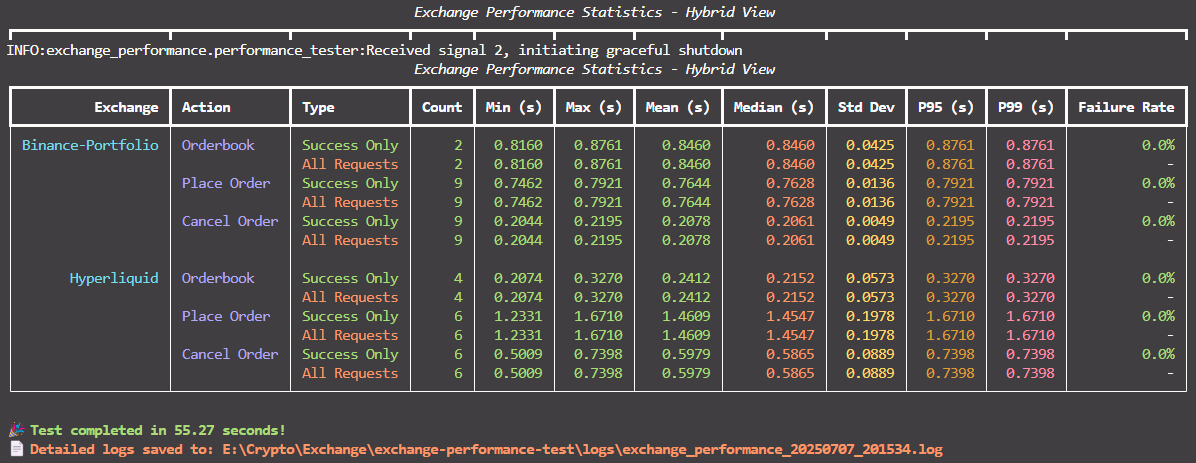
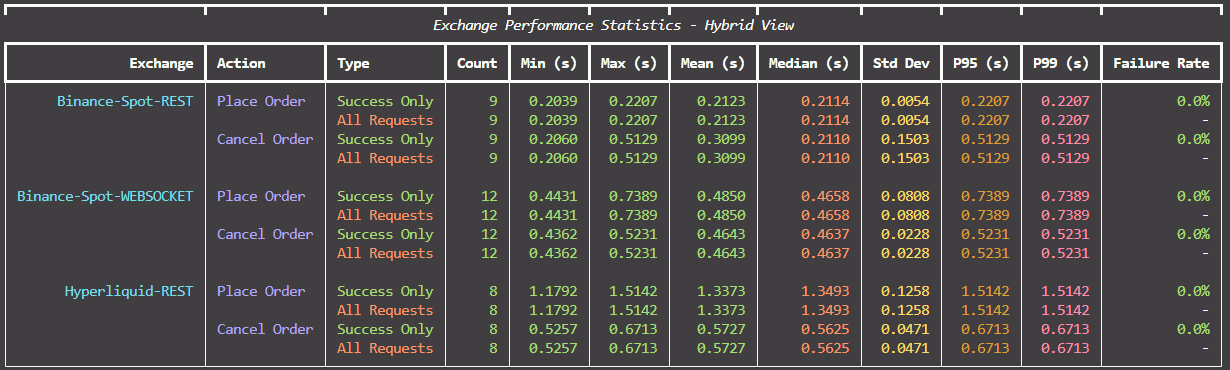
remove hl websocket because it is not supported

Changed region(s): [[0.0, 0.0, 1.0, 1.0]]

diff --git a/src/hyperliquid_websocket_exchange.py b/src/hyperliquid_websocket_exchange.py
@@ -11,7 +11,13 @@ from .config import HYPERLIQUID_CONFIG, ORDER_SIZE_BTC, MARKET_OFFSET
 
 
 class HyperliquidWebSocketExchange(BaseExchange):
-    """Hyperliquid WebSocket API implementation using the official SDK for WebSocket-style order placement"""
+    """Hyperliquid WebSocket API implementation with WebSocket market data and optimized order operations
+    
+    Since Hyperliquid doesn't support true WebSocket order placement, this implementation:
+    - Uses WebSocket for real-time market data (orderbook updates)
+    - Uses direct SDK calls for order operations (same as REST, but in async context)
+    - Provides the same interface as true WebSocket exchanges
+    """
     
     def __init__(self, wallet_address: str, private_key: str, asset: str | None = None):
         super().__init__("Hyperliquid", APIMode.WEBSOCKET)
@@ -135,9 +141,10 @@ class HyperliquidWebSocketExchange(BaseExchange):
         start_time = time.time()
         
         try:
-            # Use exchange SDK in async manner (WebSocket-style implementation)
-            result = await asyncio.to_thread(
-                self.exchange.order,
+            # Direct SDK call - same as REST but in async context
+            # Note: Since Hyperliquid doesn't support true WebSocket orders,
+            # we use the SDK directly for optimal performance
+            result = self.exchange.order(
                 name=self.asset,
                 is_buy=True,
                 sz=ORDER_SIZE_BTC,
@@ -192,9 +199,10 @@ class HyperliquidWebSocketExchange(BaseExchange):
         cancel_start_time = time.time()
         
         try:
-            # Use exchange SDK in async manner (WebSocket-style implementation)
-            cancel_result = await asyncio.to_thread(
-                self.exchange.cancel,
+            # Direct SDK call - same as REST but in async context
+            # Note: Since Hyperliquid doesn't support true WebSocket orders,
+            # we use the SDK directly for optimal performance
+            cancel_result = self.exchange.cancel(
                 self.asset,
                 int(order_id)
             )

diff --git a/src/exchange_factory.py b/src/exchange_factory.py
@@ -4,7 +4,6 @@ from .base_exchange import BaseExchange
 from .binance_exchange import BinanceExchange
 from .hyperliquid_exchange import HyperliquidExchange
 from .binance_websocket_exchange import BinanceWebSocketExchange
-from .hyperliquid_websocket_exchange import HyperliquidWebSocketExchange
 from .config import BINANCE_CONFIG, ENABLE_REST_API, ENABLE_WEBSOCKET_API
 
 
@@ -44,8 +43,8 @@ class ExchangeFactory:
             if ENABLE_REST_API:
                 exchanges.append(HyperliquidExchange(hl_address, hl_private_key))
             
-            # Create WebSocket API instance
-            if ENABLE_WEBSOCKET_API:
-                exchanges.append(HyperliquidWebSocketExchange(hl_address, hl_private_key))
+            # Note: Hyperliquid does not support WebSocket order placement
+            # WebSocket is only available for market data feeds, not order operations
+            # All order placement must go through their REST API/SDK
         
         return exchanges

diff --git a/src/config.py b/src/config.py
@@ -34,7 +34,9 @@ DECIMAL_PLACES = 4  # Precision for latency display
 
 # API Mode Configuration
 ENABLE_REST_API = True      # Enable REST API testing
-ENABLE_WEBSOCKET_API = True # Enable WebSocket API testing
+ENABLE_WEBSOCKET_API = True # Enable WebSocket API testing (only for exchanges that support it)
+# Note: Hyperliquid only supports WebSocket for market data, not order placement
+# WebSocket order testing is only available for Binance
 WEBSOCKET_TIMEOUT = 30.0    # WebSocket connection timeout in seconds (increased from 10s)
 WEBSOCKET_PING_INTERVAL = 60.0  # WebSocket ping interval in seconds (increased from 20s)
 

diff --git a/README.md b/README.md
@@ -8,22 +8,25 @@ A modular, extensible framework for testing latency across multiple cryptocurren
 
 ```
 src/
-├── __init__.py              # Package initialization
-├── models.py                # Data models (LatencyData)
-├── config.py                # Configuration settings
-├── base_exchange.py         # Abstract exchange interface
-├── binance_exchange.py      # Binance implementation
-├── hyperliquid_exchange.py  # Hyperliquid implementation
-├── exchange_factory.py      # Exchange factory pattern
-└── performance_tester.py    # Main testing orchestrator
+├── __init__.py                       # Package initialization
+├── models.py                         # Data models (LatencyData)
+├── config.py                         # Configuration settings
+├── base_exchange.py                  # Abstract exchange interface
+├── binance_exchange.py               # Binance REST implementation
+├── binance_websocket_exchange.py     # Binance WebSocket implementation
+├── hyperliquid_exchange.py           # Hyperliquid REST implementation
+├── exchange_factory.py               # Exchange factory pattern
+└── performance_tester.py             # Main testing orchestrator
 
-main_modular.py              # Entry point for modular version
+main.py                               # Entry point
 ```
 
 ## 🚀 **Features**
 
 - **Multi-Exchange**: Supports Binance and Hyperliquid simultaneously
-- **Dual API Support**: Tests both REST and WebSocket APIs for comprehensive latency comparison
+- **Dual API Support**: Tests both REST and WebSocket APIs where supported
+  - **Binance**: Full REST + WebSocket support for both market data and order placement
+  - **Hyperliquid**: REST API support for all operations, WebSocket for market data only
 - **Robust Cleanup**: Automatic order cancellation and cleanup on exit
 - **Safe Order Placement**: Orders placed 5% below market to avoid execution
 - **Rich Display**: Live updating statistics table with color coding
@@ -123,19 +126,19 @@ The framework provides comprehensive statistical analysis for performance assess
 ### Command Line Options
 ```bash
 # Run unlimited time (default)
-python main_modular.py
+python main.py
 
 # Run for specific duration
-python main_modular.py --duration 60    # 60 seconds
+python main.py --duration 60    # 60 seconds
 
 # Force compatibility mode for remote terminals (reduces flickering)
-python main_modular.py --no-flicker
+python main.py --no-flicker
 
 # Combine options
-python main_modular.py --duration 30 --no-flicker
+python main.py --duration 30 --no-flicker
 
 # Show help
-python main_modular.py --help
+python main.py --help
 ```
 
 ### **Remote Terminal Compatibility**
@@ -143,31 +146,13 @@ python main_modular.py --help
 If you experience flickering when running on remote Linux systems through Windows Terminal or SSH, the framework automatically detects remote environments and adjusts settings. For persistent flickering issues, use the `--no-flicker` flag:
 
 ```bash
-python main_modular.py --no-flicker
+python main.py --no-flicker
 ```
 
 This enables enhanced compatibility mode with:
 - Reduced refresh rate (0.5Hz instead of 2Hz)
 - Modified ANSI escape sequence handling
 - Better buffer management for remote connections
-
-## 🔄 **REST vs WebSocket API Comparison**
-
-The framework tests both REST and WebSocket APIs to provide comprehensive latency analysis:
-
-### **REST API Characteristics**
-- ✅ **Reliable**: Each request gets a definitive response
-- ✅ **Simple**: Easy error handling and debugging
-- ✅ **Universal**: Widely supported across all operations
-- ❌ **Higher Latency**: HTTP request/response overhead
-- ❌ **Rate Limited**: Subject to stricter API rate limits
-
-### **WebSocket API Characteristics**
-- ✅ **Lower Latency**: Persistent connection, minimal overhead
-- ✅ **Real-time**: Ideal for streaming market data
-- ✅ **Efficient**: Better bandwidth utilization
-- ❌ **Complex**: Connection management and reconnection logic
-- ❌ **Limited Operations**: Not all operations support WebSocket
 
 ### **API Mode Configuration**
 
@@ -179,10 +164,12 @@ ENABLE_WEBSOCKET_API = True # Test WebSocket APIs
 ```
 
 **Expected Results:**
-- **Market Data**: WebSocket typically 20-50% faster than REST
-- **Order Operations**: Mixed results depending on exchange implementation
-- **Binance**: WebSocket excellent for market data, REST for orders
-- **Hyperliquid**: WebSocket for market data, REST for order operations
+- **Market Data**: WebSocket typically 20-50% faster than REST for both exchanges
+- **Order Operations**: 
+  - **Binance**: WebSocket and REST both supported, performance varies by operation
+  - **Hyperliquid**: REST only for order operations (WebSocket not supported for order placement)
+- **Binance**: WebSocket excellent for both market data and order operations
+- **Hyperliquid**: WebSocket for market data only, REST for all order operations
 
 ### Quick Start
 ```bash
@@ -194,8 +181,8 @@ cp env.example .env
 # BINANCE_SECRET_KEY=your_secret_key  
 # LOG_LEVEL=INFO                  # DEBUG for detailed logging
 
-# Run the modular version
-python main_modular.py
+# Run the application
+python main.py
 ```
 
 ### Adding New Exchanges
